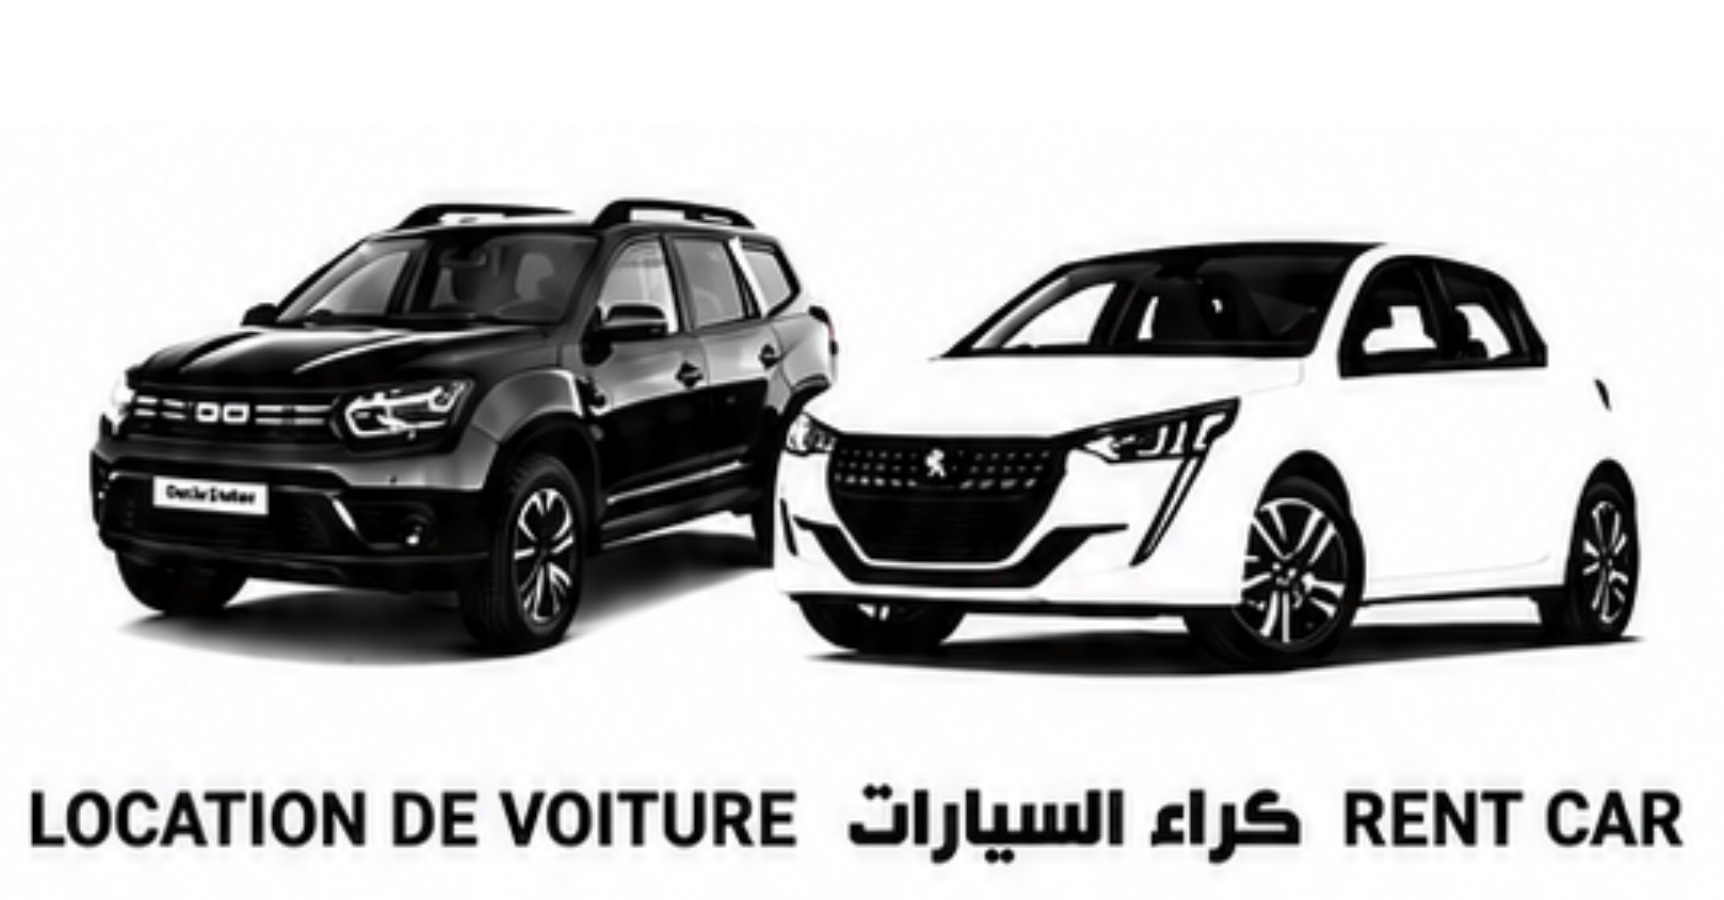
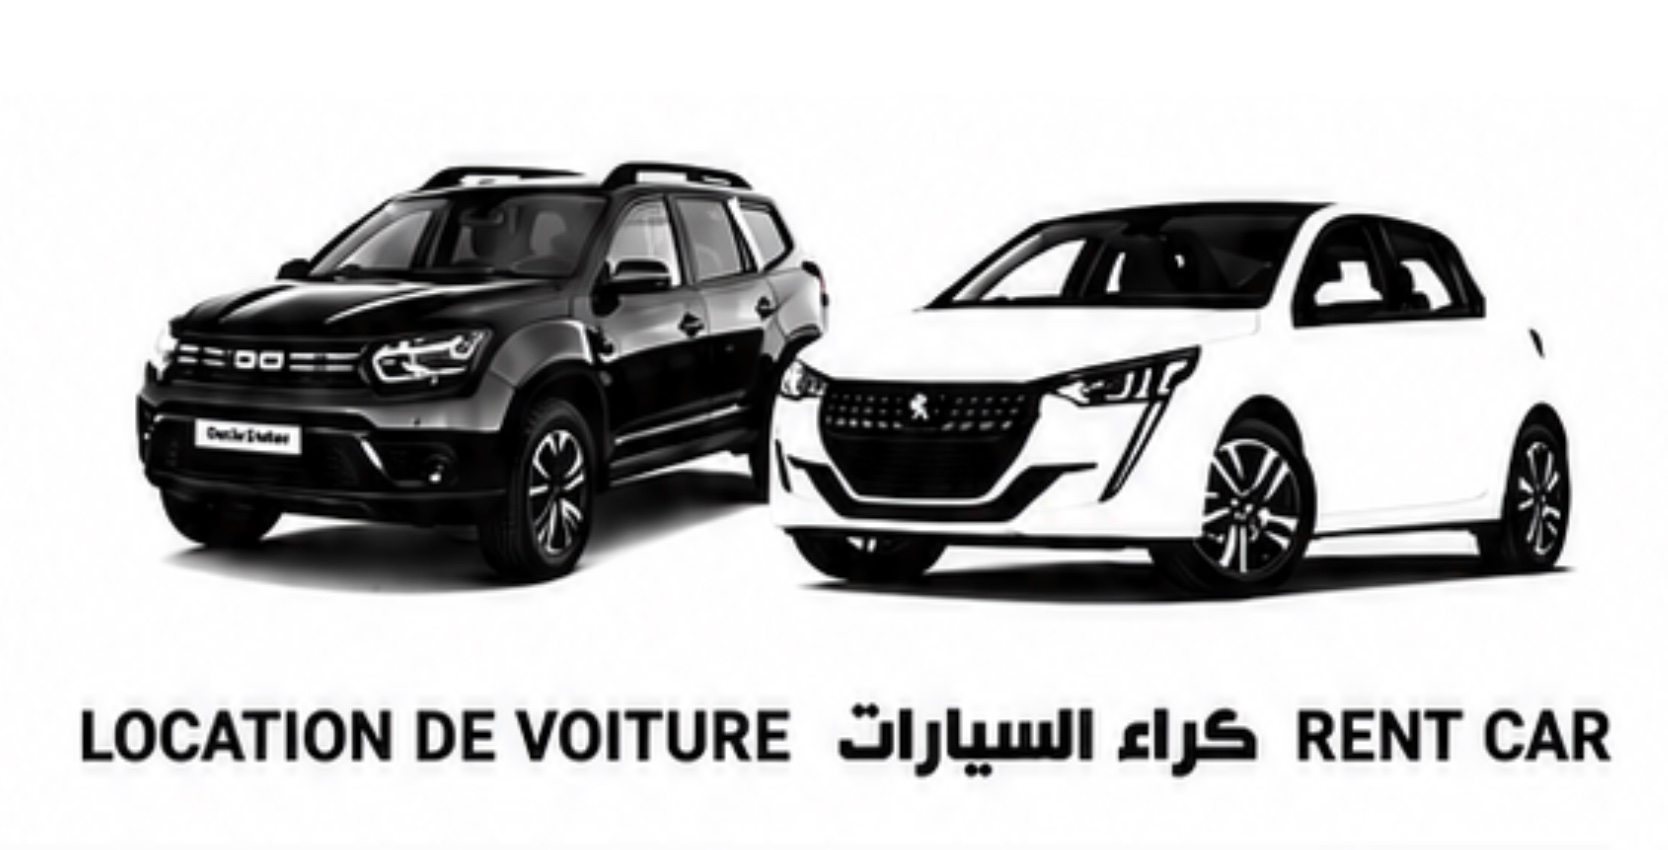
Updated the contract header so the full vehicle image and all text are visible:

diff --git a/src/components/contracts/ContractPdfTemplate.tsx b/src/components/contracts/ContractPdfTemplate.tsx
@@ -289,7 +289,7 @@ export default function ContractPdfTemplate({ data, logoBroken = false, onLogoEr
           display: block;
           width: 100%;
           height: 100%;
-          object-fit: cover;
+          object-fit: contain;
           object-position: center;
         }
         .rc-contract-ref { position: absolute; left: 58px; top: 153px; font-size: 16px; font-weight: 900; letter-spacing: .16em; }
